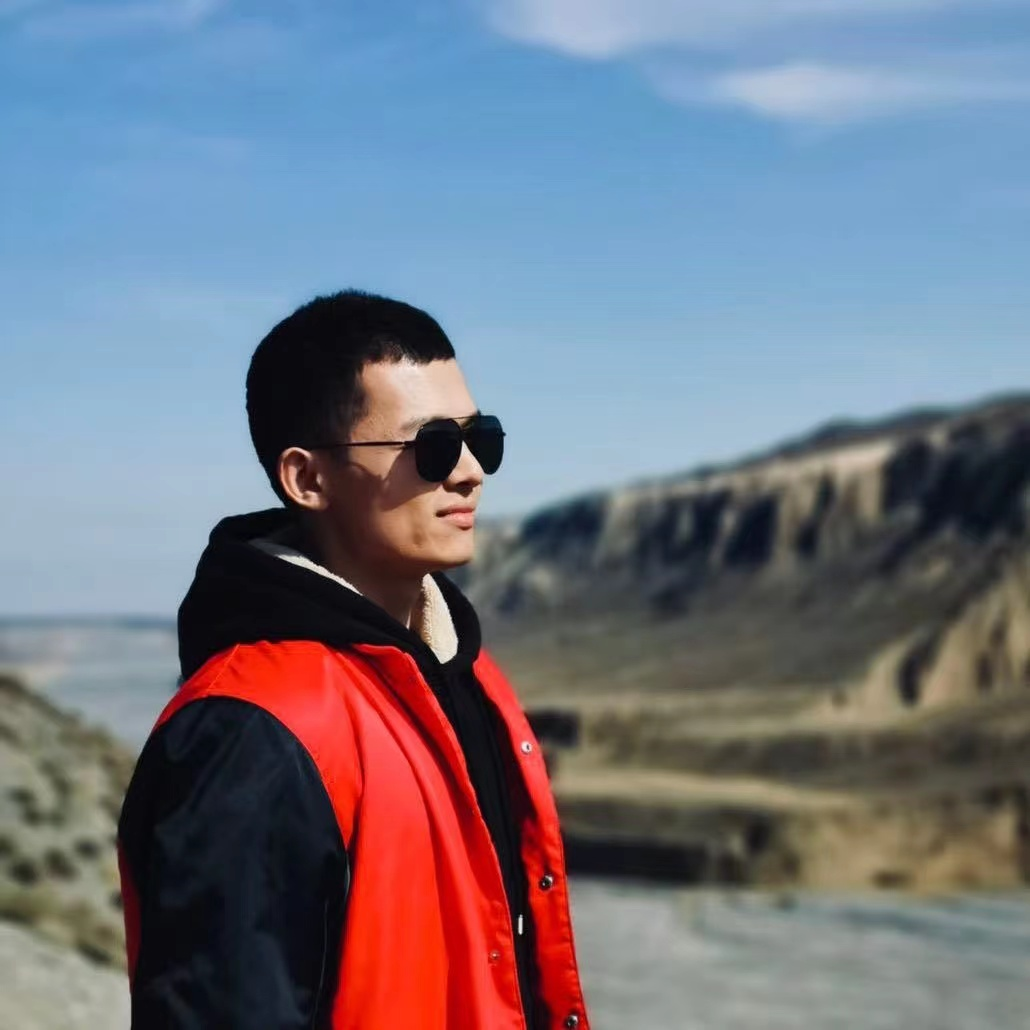
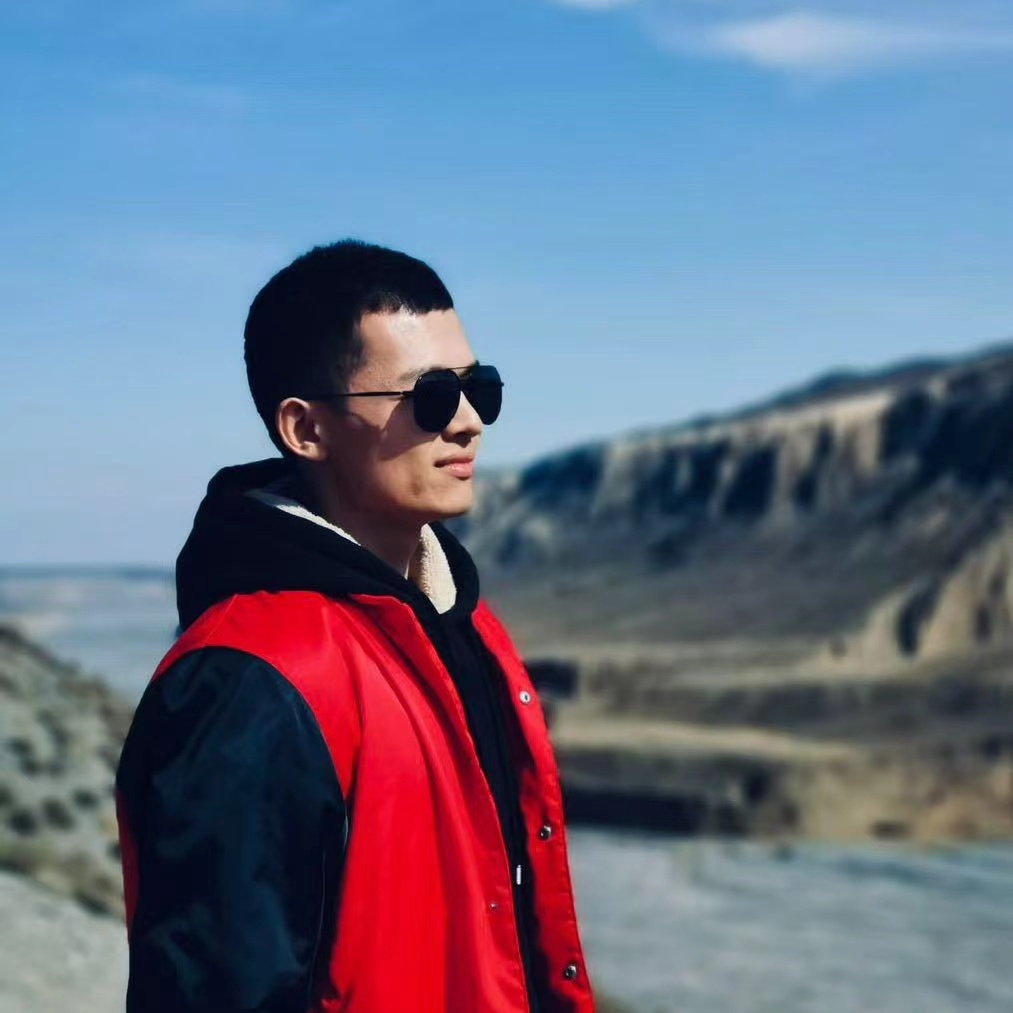
.

diff --git a/index.html b/index.html
@@ -15,27 +15,7 @@
 <body>
   <article class="kontext">
     <div class="layer one show bgc">
-      <div alt="colin">
-        <svg xmlns="http://www.w3.org/2000/svg" version="1.0" width="108.000000pt" height="108.000000pt"
-          class="colin-svg" viewBox="0 0 108.000000 108.000000" preserveAspectRatio="xMidYMid meet">
-          <metadata>
-            Created by potrace 1.16, written by Peter Selinger 2001-2019
-          </metadata>
-          <g transform="translate(0.000000,108.000000) scale(0.010485,-0.010485)" id="colin-header" fill="#f0f"
-            stroke="none">
-            <path
-              d="M3451 7409 c-24 -4 -50 -14 -57 -20 -8 -7 -29 -12 -45 -11 -21 0 -33 -5 -36 -16 -3 -14 -16 -17 -66 -16 -78 1 -95 -4 -102 -27 -4 -10 -12 -19 -20 -19 -7 0 -27 -12 -44 -26 -17 -14 -35 -22 -41 -19 -10 6 -81 -39 -88 -56 -9 -21 -44 -49 -97 -79 -68 -39 -207 -176 -263 -260 -80 -119 -123 -253 -128 -395 -6 -172 -4 -250 6 -300 5 -27 18 -99 29 -160 20 -117 84 -313 118 -361 26 -37 80 -150 89 -189 6 -25 58 -108 123 -197 19 -25 11 -30 -53 -34 -30 -2 -80 -10 -113 -17 -32 -8 -76 -18 -98 -21 -22 -4 -60 -11 -85 -16 -25 -6 -87 -17 -139 -25 -100 -16 -108 -20 -176 -94 -60 -66 -75 -92 -75 -137 0 -29 -9 -54 -31 -87 -41 -63 -95 -193 -108 -261 -9 -50 -49 -137 -135 -294 -24 -44 -37 -83 -43 -130 l-8 -67 -150 2 c-82 1 -177 3 -210 4 -67 2 -119 -10 -122 -28 -2 -7 0 -13 5 -14 4 0 16 -3 27 -6 37 -10 256 -5 269 7 10 7 22 7 42 0 15 -6 33 -9 41 -6 7 3 13 1 13 -5 0 -15 53 -58 73 -59 9 0 17 -6 18 -12 7 -128 20 -258 30 -317 12 -74 12 -75 -13 -96 -13 -11 -23 -26 -21 -32 2 -6 -5 -19 -15 -30 -21 -20 -36 -89 -21 -98 19 -12 7 -38 -51 -114 -67 -89 -102 -150 -215 -376 -74 -148 -82 -160 -105 -157 -14 2 -29 8 -34 13 -6 5 -18 9 -27 9 -10 0 -19 3 -21 8 -1 4 -24 17 -50 29 -37 18 -53 33 -72 71 -14 27 -52 74 -86 105 l-62 57 -61 -6 c-84 -8 -113 5 -137 61 -11 25 -17 52 -14 60 6 15 -7 20 -91 29 -27 4 -66 17 -85 30 -57 37 -134 107 -142 127 -4 11 -14 19 -23 19 -9 0 -38 11 -65 25 -27 14 -54 25 -60 25 -6 0 -46 35 -89 78 -80 80 -88 84 -208 107 l-33 7 0 -194 0 -194 88 -27 c49 -15 97 -24 110 -20 21 5 22 7 7 30 -21 31 -12 43 35 43 34 0 47 -8 117 -74 43 -41 75 -77 72 -81 -15 -15 -81 -18 -91 -4 -8 11 -9 10 -4 -3 7 -23 -3 -48 -19 -48 -19 0 -25 -59 -7 -69 24 -14 6 -41 -27 -41 -37 0 -61 23 -61 60 0 31 -33 62 -56 53 -8 -3 -14 -1 -14 5 0 5 -25 22 -55 37 -30 14 -60 35 -65 46 -23 42 -30 16 -30 -104 l0 -123 33 -18 c17 -9 50 -27 72 -39 49 -28 112 -47 153 -47 17 0 33 -6 36 -12 3 -9 8 -8 16 5 8 12 24 17 53 17 24 0 52 7 64 15 17 12 27 13 47 4 53 -25 38 -53 -33 -62 -54 -7 -71 -23 -78 -74 -7 -51 14 -91 71 -138 31 -25 49 -51 60 -82 9 -26 23 -54 31 -63 9 -10 18 -41 22 -69 5 -45 3 -55 -17 -76 -33 -35 -91 -35 -119 1 -12 15 -21 35 -21 45 0 11 -6 29 -12 42 -45 80 -94 109 -176 106 -91 -3 -143 -23 -169 -64 -13 -19 -23 -38 -23 -42 1 -15 35 -48 77 -75 28 -18 43 -37 48 -57 3 -17 17 -52 30 -79 26 -55 60 -80 144 -107 50 -16 56 -16 88 -1 45 21 80 20 128 -4 22 -11 51 -20 66 -20 38 0 106 56 136 110 22 40 24 53 19 125 -5 72 -3 84 19 123 32 56 26 128 -12 143 -13 5 -35 21 -49 36 -21 23 -24 33 -19 63 4 19 13 38 20 43 8 4 21 14 29 23 13 12 22 13 53 4 31 -10 50 -9 98 4 l60 16 48 -52 c60 -67 72 -90 82 -158 14 -105 14 -102 -33 -120 -34 -11 -47 -23 -58 -49 -8 -18 -14 -36 -14 -40 0 -4 24 -32 52 -62 29 -31 64 -73 78 -93 14 -21 36 -48 49 -61 28 -28 23 -75 -8 -75 -30 0 -81 -48 -81 -76 0 -36 -24 -39 -80 -10 -109 57 -212 54 -249 -8 -10 -17 -21 -43 -25 -59 -6 -27 -29 -36 -41 -16 -4 5 -12 8 -18 6 -7 -2 -23 1 -37 8 -46 22 -89 25 -130 9 -22 -9 -40 -19 -40 -23 0 -3 -16 -19 -35 -34 l-36 -29 -65 24 c-63 22 -67 25 -92 78 -43 92 -73 127 -126 149 -92 39 -86 54 -86 -216 0 -206 2 -239 17 -255 15 -17 15 -18 0 -18 -15 0 -17 -22 -17 -215 0 -188 2 -215 16 -215 50 0 346 -115 391 -152 16 -13 133 -23 133 -12 -1 10 -74 65 -102 76 -10 4 -20 19 -24 34 -6 23 -1 32 25 56 44 39 113 36 163 -7 13 -11 37 -26 55 -34 17 -7 34 -22 39 -34 4 -12 10 -31 14 -42 3 -11 0 -35 -7 -53 -24 -57 -15 -70 132 -186 110 -87 127 -94 241 -102 121 -7 152 -17 183 -55 32 -41 46 -155 46 -382 l0 -177 2303 0 c1835 0 2302 3 2302 13 0 6 -9 37 -19 68 -10 30 -22 91 -26 135 -7 81 -22 161 -25 134 -3 -32 -30 66 -41 149 -5 47 -15 109 -21 136 -5 28 -14 84 -19 125 -10 98 -36 271 -48 337 -6 29 -13 98 -17 153 -6 99 -5 102 18 118 12 10 30 17 38 18 20 1 65 13 118 30 23 8 60 14 81 14 44 0 117 -23 141 -45 9 -8 31 -18 48 -21 18 -4 35 -11 38 -15 7 -12 68 -11 123 2 30 7 69 6 125 -2 44 -6 101 -10 126 -10 25 0 80 -5 123 -11 73 -10 82 -9 116 10 29 16 64 23 161 28 169 11 209 9 259 -13 32 -14 44 -25 48 -46 4 -18 15 -32 30 -38 13 -5 26 -16 29 -24 8 -19 27 -19 67 2 19 9 27 18 19 21 -10 3 -8 8 5 18 11 8 13 13 6 14 -7 0 -13 11 -13 24 0 37 52 50 169 42 52 -4 106 -12 120 -19 31 -14 42 -64 17 -73 -22 -8 -20 -37 3 -49 10 -6 34 -19 52 -29 40 -23 132 -38 163 -26 11 4 33 19 47 34 24 24 26 30 17 69 -17 73 -15 102 5 101 9 -1 17 1 17 5 0 4 15 13 34 19 49 18 60 36 63 105 3 81 13 127 27 127 15 0 39 67 38 107 0 18 -11 51 -23 73 -21 36 -21 43 -9 80 7 22 21 47 32 56 10 10 18 23 18 30 0 7 12 26 26 43 28 33 67 41 107 20 21 -11 126 -96 137 -110 13 -18 100 -20 159 -5 35 9 74 16 88 16 17 0 38 13 62 39 36 39 37 40 123 44 86 5 86 5 97 -22 22 -54 20 -98 -7 -136 -14 -19 -31 -35 -38 -35 -17 0 -6 -99 13 -118 17 -18 19 -59 2 -54 -5 1 -26 -6 -47 -16 -20 -10 -63 -24 -95 -31 -113 -24 -162 -111 -99 -173 40 -39 74 -49 202 -60 198 -16 243 -9 260 39 6 16 15 36 21 46 6 11 6 24 2 30 -5 7 -6 30 -2 52 3 22 7 33 8 25 1 -9 9 -4 21 15 17 25 20 27 21 10 0 -11 7 1 15 27 12 39 20 49 42 54 34 7 122 44 142 60 25 20 58 26 80 14 11 -6 17 -16 14 -22 -4 -6 1 -17 11 -24 17 -13 17 -15 2 -32 -9 -10 -17 -24 -17 -31 0 -14 -59 -71 -74 -71 -12 0 -56 -52 -56 -67 0 -7 10 -23 21 -34 29 -29 35 -79 11 -80 -9 -1 -30 -3 -47 -4 -16 -2 -56 -5 -88 -6 -44 -1 -60 -5 -67 -19 -16 -31 -11 -64 13 -85 21 -18 116 -55 143 -55 7 0 41 -13 76 -30 49 -23 77 -30 126 -30 35 0 62 4 62 10 0 6 8 10 19 10 10 0 21 8 24 19 6 25 57 17 57 -9 0 -18 38 -40 70 -40 11 0 20 -4 20 -10 0 -5 17 -14 38 -19 49 -14 229 -14 237 0 4 6 19 7 36 4 16 -4 29 -3 29 2 0 11 -58 33 -86 33 -15 0 -16 2 -5 9 9 6 0 10 -30 14 -44 4 -72 10 -112 23 -12 4 -44 8 -73 9 -113 6 -178 21 -170 41 3 8 -1 14 -10 14 -8 0 -13 4 -10 9 9 14 -5 42 -17 34 -6 -4 -7 -1 -2 7 8 14 116 7 177 -11 18 -5 71 -10 118 -10 47 0 114 -5 150 -12 36 -7 74 -12 85 -12 11 1 37 2 58 3 l37 2 0 1272 0 1272 -30 -34 c-16 -19 -29 -41 -30 -47 0 -7 -11 -13 -24 -13 -14 0 -28 -4 -31 -10 -23 -37 -56 25 -76 145 -10 60 -10 83 5 155 17 88 68 210 87 210 6 0 9 -6 6 -14 -3 -8 3 -22 14 -32 10 -9 19 -23 19 -31 0 -8 13 -28 30 -46 l30 -32 0 1154 0 1154 -97 -7 c-141 -10 -291 -44 -393 -89 -113 -49 -176 -59 -415 -67 -251 -8 -266 -10 -510 -91 -136 -46 -247 -58 -356 -41 -41 6 -94 7 -143 1 -67 -7 -93 -16 -184 -66 -158 -85 -215 -113 -230 -113 -30 0 -182 -61 -248 -99 -39 -23 -104 -50 -145 -60 -88 -23 -131 -39 -224 -81 -65 -29 -77 -31 -202 -34 -130 -2 -133 -2 -200 -38 -157 -83 -171 -90 -212 -94 -35 -4 -111 -37 -112 -49 -4 -58 -34 -113 -66 -121 -13 -4 -36 -1 -53 5 -51 17 -110 -10 -208 -96 -48 -41 -98 -80 -112 -86 -14 -6 -28 -16 -31 -20 -13 -18 -39 38 -39 83 0 56 -21 119 -46 138 -35 26 -275 -6 -352 -47 -30 -16 -163 -61 -212 -72 -25 -6 -95 -35 -156 -65 -123 -60 -157 -92 -173 -164 -5 -23 -11 -43 -13 -44 -60 -45 -116 -49 -154 -11 -36 36 -70 33 -88 -9 -8 -18 -19 -37 -25 -40 -15 -10 -54 -89 -75 -154 -10 -29 -24 -59 -33 -67 -23 -24 -58 -19 -72 11 -10 24 -15 26 -54 20 -144 -20 -192 -19 -283 8 -49 15 -97 31 -107 36 -9 6 -39 13 -65 17 -46 6 -118 44 -135 71 -5 7 -17 10 -27 7 -13 -4 -24 4 -40 30 -12 19 -29 41 -38 48 -23 16 -52 63 -52 82 0 9 -7 18 -15 21 -10 4 -13 13 -10 24 3 10 1 21 -4 25 -7 4 -7 14 -1 30 5 14 7 32 4 40 -5 12 2 15 35 15 39 0 55 13 29 23 -7 3 1 6 17 7 17 0 39 7 49 15 25 19 36 19 36 1 0 -7 8 -16 18 -20 9 -3 23 -9 30 -12 6 -3 12 -1 12 4 0 5 -10 13 -22 17 -15 4 -18 8 -10 12 7 3 19 0 26 -6 20 -16 45 -3 39 20 -3 10 0 26 7 34 10 12 10 15 -3 15 -63 0 19 61 128 96 42 13 88 35 102 49 l27 24 17 -29 c23 -37 48 -50 99 -50 26 0 54 -9 80 -25 30 -19 45 -23 58 -16 26 14 60 54 64 75 1 10 22 28 45 40 39 19 60 50 31 44 -7 -1 -32 8 -56 21 l-43 22 -42 -20 c-64 -31 -121 -37 -152 -17 -31 20 -27 43 15 96 48 62 89 180 90 257 0 47 16 49 39 6 10 -21 48 -77 83 -124 35 -47 72 -102 81 -122 33 -68 83 -75 136 -19 49 52 72 124 78 250 3 56 10 102 14 102 14 0 10 28 -5 37 -7 4 -21 33 -31 63 -10 30 -31 67 -46 82 -24 25 -35 28 -88 28 -56 0 -62 2 -71 25 -9 24 -40 36 -40 16 0 -5 -24 -21 -53 -35 -43 -22 -73 -27 -164 -33 -73 -4 -117 -2 -125 4 -21 18 -99 -1 -150 -36 -26 -18 -57 -33 -68 -34 -13 -1 -19 -6 -15 -15 2 -7 -2 -15 -10 -18 -8 -4 -13 -10 -10 -14 2 -4 -3 -29 -11 -54 -24 -69 -24 -69 -304 -67 -74 1 -169 0 -210 -3 -41 -3 -68 -3 -59 0 11 3 15 12 12 27 -3 14 -2 18 4 10 5 -7 29 -15 53 -18 l45 -7 -25 21 c-14 11 -28 21 -32 21 -4 0 -5 7 -2 15 4 9 0 15 -9 15 -25 0 -32 22 -12 36 10 7 15 20 12 29 -5 10 0 15 14 15 15 0 19 -4 15 -16 -5 -12 -2 -15 10 -10 8 3 17 6 20 6 7 0 -9 35 -19 42 -12 7 18 58 33 58 6 0 10 7 10 15 0 8 7 15 16 15 13 0 14 3 5 14 -9 11 -7 22 9 50 22 39 21 52 -4 108 -9 21 -16 41 -16 46 0 5 -18 32 -40 60 -22 27 -40 57 -40 65 0 9 -5 19 -11 23 -10 6 -7 49 7 97 5 14 9 16 20 6 10 -8 14 -8 14 0 0 6 8 11 18 11 10 0 22 4 27 9 13 13 57 17 73 8 7 -5 12 -3 12 6 0 9 11 14 31 15 17 0 37 6 45 13 12 10 16 9 21 -9 8 -34 60 -19 105 31 22 24 38 36 38 27 0 -14 21 -26 72 -43 10 -4 15 -12 13 -19 -9 -23 132 -22 178 1 28 14 53 18 99 16 40 -2 72 2 90 11 15 8 33 13 40 12 23 -5 7 74 -29 147 -76 150 -201 297 -282 332 -20 8 -70 31 -111 49 -69 31 -105 43 -230 75 -25 6 -56 17 -70 24 -24 12 -117 30 -134 26 -4 -1 -13 3 -20 8 -10 9 -153 43 -166 40 -3 -1 -25 -5 -49 -10z m5440 -1530 c26 -14 41 -53 30 -81 -5 -13 -34 -50 -66 -83 -106 -113 -107 -115 -106 -202 2 -108 -19 -272 -37 -289 -28 -29 -44 -6 -57 79 -3 21 -9 35 -13 33 -5 -3 -9 32 -11 77 -3 89 -22 127 -66 127 -22 0 -107 -49 -119 -69 -4 -6 -18 -11 -32 -11 -21 0 -29 9 -46 51 -16 38 -30 55 -59 70 -50 25 -53 24 -104 -12 -24 -17 -48 -29 -53 -25 -16 10 -78 -14 -103 -40 l-24 -25 43 -38 c37 -33 42 -43 42 -80 0 -61 -24 -103 -58 -99 -26 3 -33 12 -67 88 -9 19 -34 55 -57 80 -39 44 -41 45 -102 45 -33 0 -81 -4 -107 -8 -45 -9 -45 -8 -73 31 -15 22 -37 42 -48 45 -19 5 -16 10 23 39 94 71 136 86 235 87 76 1 110 7 200 36 59 19 115 35 125 35 21 0 116 24 229 57 47 14 144 36 215 49 72 13 146 27 165 33 49 13 78 13 101 0z m-5106 -74 c23 -5 26 -4 15 4 -22 16 13 14 81 -3 31 -8 72 -13 92 -11 42 4 45 -3 17 -35 -12 -13 -35 -49 -52 -80 -57 -103 -92 -160 -98 -160 -4 0 -13 12 -20 26 -9 16 -20 24 -32 21 -11 -3 -20 2 -23 14 -4 10 -11 19 -17 19 -6 0 -24 13 -39 30 -16 16 -29 25 -29 20 0 -6 -13 -4 -30 5 -16 9 -30 18 -30 21 0 3 4 3 9 -1 5 -3 9 8 9 25 -1 16 -5 30 -10 30 -4 0 -8 7 -8 15 0 8 5 15 12 15 9 0 9 3 0 12 -7 7 -12 15 -12 19 0 11 53 21 59 10 3 -5 20 -6 36 -3 l30 6 -30 8 c-28 7 -28 7 5 3 19 -2 49 -6 65 -10z m-918 -338 c9 -20 23 -43 31 -50 13 -10 14 -8 8 18 -4 17 -10 67 -13 111 -6 90 2 105 42 84 32 -17 36 -31 26 -87 -7 -38 -5 -57 11 -97 11 -28 29 -61 40 -73 13 -14 18 -28 13 -42 -9 -28 39 -41 63 -18 15 15 14 19 -7 41 -27 28 -17 37 32 29 49 -8 67 -31 70 -89 l2 -49 -42 -3 c-76 -6 -151 24 -217 87 -75 71 -108 141 -111 231 -2 102 7 113 22 25 7 -44 20 -97 30 -118z m4568 79 c27 -3 30 -6 28 -36 -4 -70 -79 -95 -130 -44 -21 21 -29 24 -47 15 -40 -20 -131 -54 -154 -56 -27 -4 -43 22 -31 52 13 35 66 57 133 55 33 -1 65 3 70 7 16 13 47 18 76 14 14 -1 39 -5 55 -7z m-516 -56 c20 0 31 -7 40 -27 10 -23 9 -29 -8 -46 -35 -36 -192 -36 -205 0 -9 21 19 51 48 51 13 0 35 7 47 16 13 9 30 14 37 11 8 -3 26 -5 41 -5z m-3934 -754 c42 -2 66 -13 165 -77 14 -9 37 -19 51 -22 14 -4 45 -22 69 -41 24 -19 46 -34 49 -33 13 2 109 -49 139 -75 18 -15 37 -28 41 -28 5 0 34 -25 65 -55 30 -30 52 -55 48 -55 -4 0 -59 30 -122 65 -169 95 -370 189 -485 225 -38 13 -105 39 -148 58 -92 42 -87 55 18 46 39 -3 88 -7 110 -8z m2488 -182 c40 -37 32 -114 -12 -114 -42 0 -141 63 -141 89 0 10 16 29 36 43 42 30 70 26 117 -18z m-1169 -6 c62 -65 191 -335 212 -448 2 -9 17 -57 33 -108 26 -79 29 -101 24 -158 -5 -56 -11 -71 -37 -99 -17 -18 -50 -42 -73 -54 -48 -24 -53 -21 -94 46 -12 21 -33 51 -46 66 -13 16 -23 39 -23 52 0 12 -7 26 -16 29 -8 3 -13 10 -9 15 3 5 0 13 -6 16 -5 4 -8 13 -5 21 3 8 0 14 -6 14 -7 0 -7 4 1 14 9 11 9 16 -2 23 -15 9 -18 64 -4 74 5 4 3 17 -5 29 -10 18 -10 24 0 27 6 3 9 9 6 15 -6 9 -8 61 -5 109 1 6 8 9 16 5 18 -6 20 5 3 22 -8 8 -8 15 0 25 9 11 8 24 -4 58 -9 24 -16 54 -15 67 0 12 -4 22 -9 22 -6 0 -10 21 -10 47 0 66 40 105 74 71z m5282 -663 c3 -30 19 -76 43 -120 41 -75 39 -165 -7 -285 -3 -8 -6 -37 -7 -64 -1 -41 -5 -52 -30 -72 -16 -12 -40 -26 -54 -29 -13 -3 -43 -19 -65 -36 -23 -16 -65 -37 -94 -47 -28 -10 -55 -22 -59 -25 -3 -4 -17 -7 -30 -7 -13 0 -46 -12 -74 -26 -27 -15 -52 -24 -54 -22 -3 3 13 39 34 80 22 42 42 98 46 125 11 80 31 128 82 195 26 35 65 101 86 148 21 47 42 92 47 100 5 8 23 40 41 70 17 30 36 58 42 61 10 7 51 -29 53 -46z m-611 -116 c7 -22 -4 -60 -36 -120 -25 -49 -36 -173 -19 -225 7 -21 29 -72 49 -113 29 -61 43 -79 81 -102 90 -56 88 -52 44 -80 -21 -13 -46 -22 -53 -21 -8 2 -20 -2 -25 -10 -16 -21 -60 -35 -171 -58 -131 -27 -412 -38 -810 -30 -121 2 -175 -1 -220 -13 -37 -10 -146 -20 -285 -26 -124 -6 -254 -16 -289 -22 -41 -8 -65 -8 -70 -2 -3 6 -28 13 -56 16 -208 25 -234 32 -208 58 27 27 127 51 184 45 34 -4 82 -1 125 8 49 11 81 12 109 6 53 -12 128 -13 120 -1 -11 19 71 26 260 24 l190 -2 45 29 c25 16 51 34 58 40 7 6 30 17 51 25 45 16 110 55 130 79 7 9 19 16 27 16 7 0 18 9 24 20 15 29 45 25 69 -9 12 -16 21 -33 21 -38 0 -14 47 -33 81 -33 21 0 40 10 61 30 25 26 29 36 27 76 -4 52 9 67 73 84 56 16 128 92 157 168 29 76 38 86 121 143 92 62 125 72 135 38z m-3376 -418 c9 -5 40 -10 67 -11 94 -1 559 9 639 15 74 4 81 3 97 -18 16 -21 22 -22 145 -19 130 2 283 -14 295 -32 3 -5 13 -2 23 7 17 18 44 21 83 11 l23 -7 -21 -23 c-17 -17 -29 -21 -55 -17 -32 5 -156 -28 -182 -49 -7 -6 -27 -7 -45 -4 -18 4 -49 10 -68 13 -19 3 -41 14 -48 25 -11 15 -17 16 -28 7 -9 -7 -32 -10 -62 -6 -31 3 -52 1 -62 -8 -8 -7 -43 -27 -77 -44 l-61 -31 -44 16 c-24 10 -52 23 -63 31 -25 17 -85 17 -110 -1 -26 -18 -121 -46 -156 -46 -16 0 -44 14 -68 34 -28 24 -55 37 -84 40 -97 12 -217 19 -297 17 -47 -1 -109 2 -137 7 -37 6 -53 6 -54 -2 -1 -6 -2 -18 -3 -26 -2 -27 -41 -23 -54 5 -6 14 -16 25 -22 25 -5 0 -10 10 -10 23 1 21 1 21 15 3 13 -17 18 -18 39 -7 13 8 30 10 37 6 8 -5 10 -4 5 3 -8 13 11 18 99 26 92 9 108 12 136 28 32 17 84 21 108 9z m-1969 -53 c31 -55 127 -155 143 -150 5 2 7 -5 3 -13 -4 -10 2 -23 14 -33 31 -26 99 -146 88 -153 -6 -4 -1 -10 10 -13 12 -4 24 -16 27 -27 4 -10 18 -33 32 -49 13 -17 20 -30 13 -30 -6 0 -8 -5 -5 -10 4 -6 10 -8 15 -5 13 8 20 -9 10 -25 -7 -12 -18 -6 -55 30 -25 24 -45 50 -45 57 0 8 -7 16 -15 19 -8 4 -15 13 -15 21 0 8 -4 12 -9 9 -8 -6 -63 31 -69 46 -2 5 -7 6 -12 3 -4 -3 -6 4 -3 14 4 15 -2 21 -27 26 -23 5 -35 3 -42 -6 -8 -11 -9 -10 -4 4 3 11 -2 22 -14 29 -11 7 -20 23 -20 36 0 13 -7 30 -15 38 -8 9 -15 23 -15 32 0 9 -10 51 -23 92 -36 117 -19 148 33 58z m1675 -400 c14 -12 23 -28 21 -35 -3 -7 1 -10 10 -6 16 6 19 -13 3 -23 -8 -4 -8 -9 0 -17 16 -16 13 -37 -4 -31 -8 4 -15 2 -15 -4 0 -18 -72 -4 -96 19 -42 39 -20 88 53 118 2 1 14 -9 28 -21z m607 -118 c45 0 66 -43 34 -69 -8 -6 -16 -24 -18 -40 -5 -32 14 -43 92 -59 58 -12 67 -13 240 -17 259 -6 599 -45 720 -82 44 -13 102 -17 290 -18 255 -2 326 -8 409 -36 30 -11 70 -19 89 -19 34 0 58 -5 182 -40 61 -17 168 -32 323 -45 161 -13 318 -69 275 -97 -10 -6 -10 -10 2 -18 13 -9 13 -10 0 -10 -8 -1 -62 -3 -120 -5 -58 -3 -135 -10 -171 -16 -37 -7 -91 -9 -120 -5 -30 3 -90 10 -134 15 -44 5 -87 12 -95 15 -8 3 -53 8 -100 10 -47 3 -112 12 -145 20 -33 8 -91 16 -130 16 -38 1 -113 7 -165 14 -53 8 -203 14 -340 15 -137 1 -263 7 -285 13 -40 10 -154 16 -740 37 -336 12 -406 21 -441 56 -18 18 -24 20 -28 8 -6 -15 -26 -9 -26 8 0 5 18 28 39 51 22 22 39 48 39 57 -1 9 10 41 24 71 13 30 29 69 34 85 9 28 13 30 68 33 60 3 131 37 143 68 5 13 7 13 23 -1 9 -8 24 -15 32 -15z m-4832 -950 c0 -5 9 -10 20 -10 11 0 20 -5 20 -11 0 -5 4 -8 9 -4 26 16 51 -101 67 -307 l7 -88 -26 0 c-32 0 -86 -60 -89 -98 -4 -69 7 -86 88 -138 57 -37 58 -39 70 -181 5 -61 3 -83 -5 -83 -7 0 -17 14 -22 30 -6 17 -15 30 -20 30 -6 0 -25 16 -43 36 -33 36 -72 56 -151 76 -44 11 -65 40 -65 88 0 20 -13 38 -49 68 -53 45 -79 50 -141 31 -19 -5 -44 -11 -55 -13 -11 -2 -30 -6 -43 -10 -13 -5 -29 -3 -36 4 -8 6 -18 10 -22 9 -22 -4 -33 4 -59 41 -16 23 -36 40 -47 40 -11 0 -17 4 -14 9 6 9 -32 27 -69 33 -17 3 -13 9 22 33 23 17 44 41 48 54 5 20 10 22 33 16 15 -4 63 -10 107 -14 89 -8 133 3 165 41 24 29 26 90 4 124 -9 13 -15 27 -12 29 9 9 45 9 120 2 93 -10 113 -2 129 56 7 23 19 51 26 62 7 11 13 27 13 37 0 10 5 18 10 18 6 0 10 -4 10 -10z" />
-            <path
-              d="M4540 5220 c-139 -10 -165 -17 -181 -47 -12 -22 -11 -27 6 -39 24 -18 53 -18 87 0 38 20 78 27 176 32 65 4 88 9 104 24 12 11 20 22 17 24 -10 10 -111 13 -209 6z" />
-            <path
-              d="M4140 5035 c0 -13 -10 -44 -22 -69 -18 -38 -20 -48 -9 -74 8 -18 23 -33 37 -36 13 -4 24 -13 24 -21 0 -9 10 -15 25 -15 18 0 23 4 19 15 -4 8 -1 15 5 15 6 0 11 7 11 15 0 7 8 18 17 23 14 8 15 14 3 41 -7 17 -17 31 -22 31 -5 0 -20 7 -33 16 -26 17 -24 44 4 44 12 1 11 5 -8 20 -32 27 -51 25 -51 -5z" />
-            <path
-              d="M8470 1201 c-14 -3 -44 -16 -68 -29 -37 -20 -41 -25 -32 -42 6 -11 15 -20 21 -20 6 0 7 -4 4 -10 -3 -5 1 -10 11 -10 20 0 90 -37 121 -63 24 -21 58 -23 172 -12 92 10 264 -11 306 -36 17 -10 64 -22 105 -27 41 -6 97 -19 123 -31 32 -14 70 -21 111 -21 42 0 74 -6 101 -20 22 -11 47 -20 57 -20 10 0 18 -4 18 -9 0 -5 9 -13 20 -16 11 -4 18 -11 15 -16 -4 -5 5 -9 19 -9 13 0 26 6 29 13 6 19 284 17 298 -3 8 -11 12 -12 16 -2 6 14 83 17 83 2 0 -5 -16 -10 -36 -10 -21 0 -33 -4 -29 -10 3 -5 0 -11 -7 -11 -7 -1 8 -5 35 -8 55 -8 117 -3 117 10 0 5 -6 9 -14 9 -8 0 -18 4 -21 10 -9 14 93 6 107 -8 7 -7 25 -12 41 -12 17 0 36 -8 44 -17 8 -11 11 -12 7 -3 -7 13 -5 13 8 2 8 -7 23 -10 32 -6 13 5 16 21 16 80 l0 74 -62 1 c-35 0 -79 2 -99 5 -27 3 -38 0 -43 -11 -13 -35 -172 1 -187 42 -10 29 -174 67 -262 61 -37 -2 -67 0 -67 4 0 4 -19 8 -42 8 -39 0 -72 8 -143 34 -16 6 -34 10 -38 8 -5 -1 -23 4 -40 12 -30 13 -136 40 -199 50 -16 3 -54 14 -86 25 -50 18 -80 21 -218 20 -119 -1 -174 2 -219 15 -62 17 -83 18 -125 7z" />
-            <path
-              d="M9847 616 c3 -4 -4 -5 -15 -2 -28 9 -85 -25 -92 -55 -5 -19 0 -27 18 -36 13 -7 32 -13 41 -13 10 0 21 -3 24 -7 4 -3 17 -8 29 -9 13 -2 50 -7 83 -11 33 -5 83 -7 110 -7 28 1 87 3 133 4 89 2 107 15 50 38 -18 8 -51 22 -73 33 -22 10 -68 25 -103 33 -35 8 -69 19 -75 24 -15 13 -137 20 -130 8z" />
-          </g>
-        </svg>
-      </div>
+      <a><img class="img-responsive img-me" src="./img/colintao.jpg" alt="colin"></a>
       <h3>Hi, I'm col<span class="red">i</span>n.tao</h3>
       <span class="desc block">Stay Hungry, Stay Foolish</span>
       <span class="desc block">I'm not a real programmer, I do my best</span>

diff --git a/css/demo.css b/css/demo.css
@@ -80,8 +80,8 @@ body {
 		border: 4px solid #fff;
 		height: 100px;
     width: 100px;
-    transition: .5s filter;
-		filter: sepia() saturate(3) hue-rotate(310deg);
+    /* transition: .5s filter; */
+		/* filter: sepia() saturate(3) hue-rotate(310deg); */
 	}
 
 	.layer.one img.img-me:hover, img:focus {